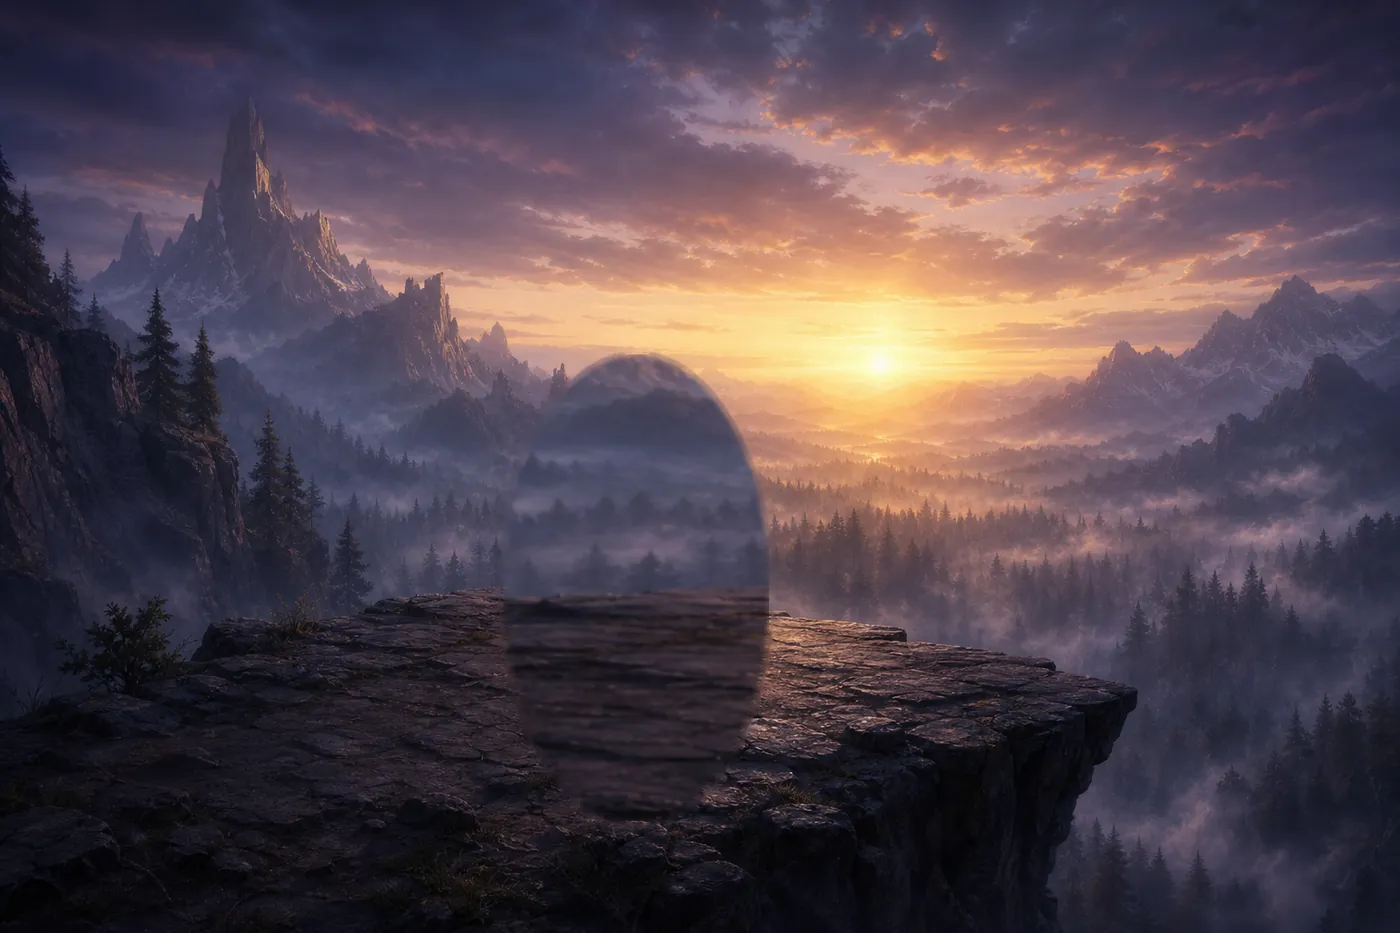
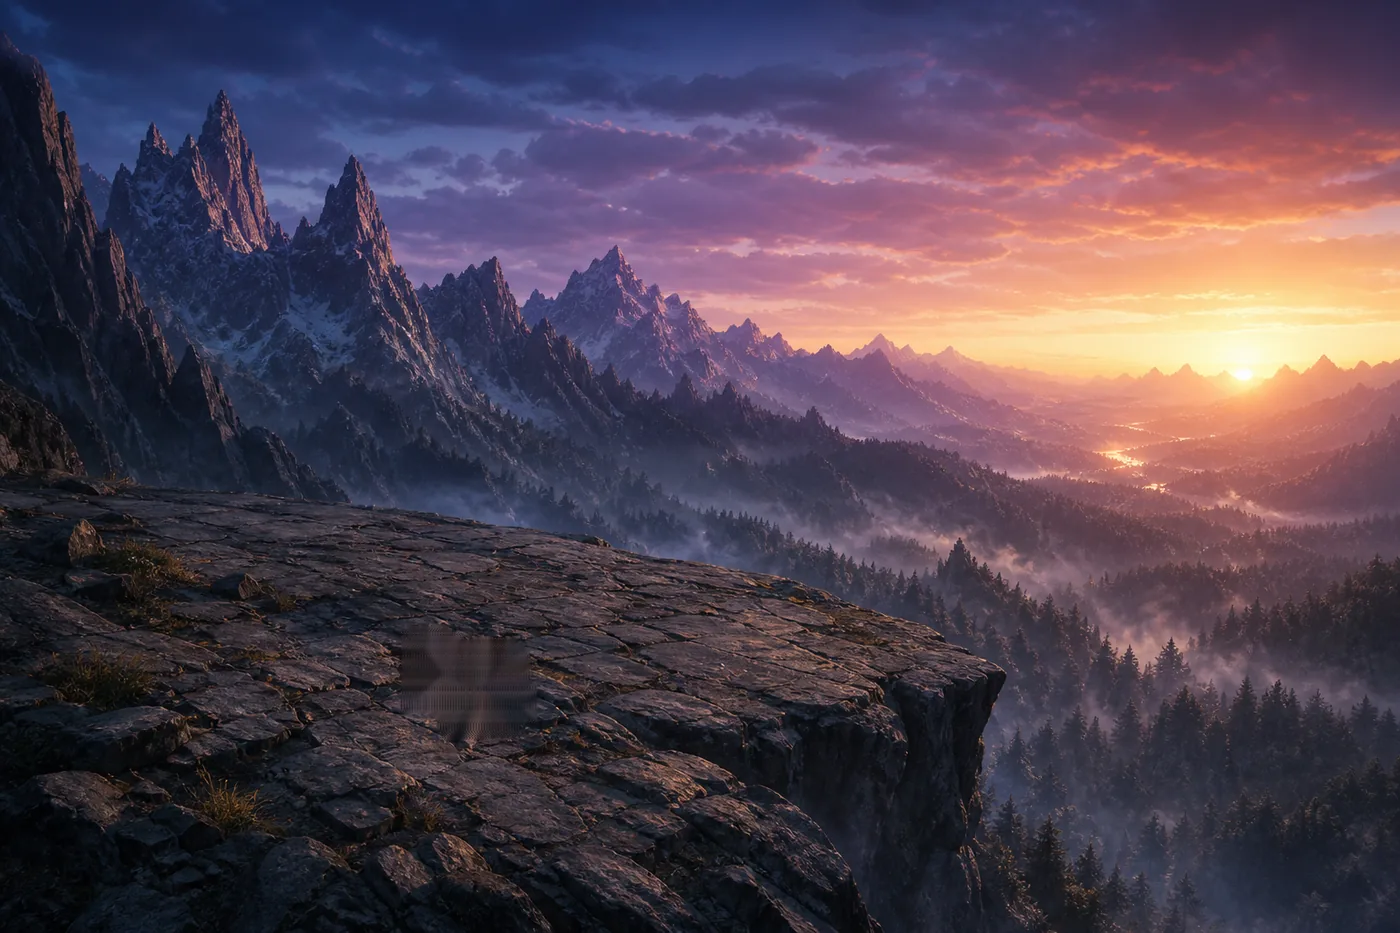
Remove egg auras and clean cliff backdrop smear.

diff --git a/src/components/dashboard/DashboardCommandBridge.tsx b/src/components/dashboard/DashboardCommandBridge.tsx
@@ -192,8 +192,7 @@ export function DashboardCommandBridge({
               loading="eager"
               decoding="async"
             />
-            <div className="absolute inset-0 bg-gradient-to-b from-black/45 via-black/10 to-black/55" />
-            <div className="absolute inset-0 bg-[radial-gradient(ellipse_at_50%_70%,transparent_20%,rgba(0,0,0,0.45)_100%)]" />
+            <div className="absolute inset-0 bg-gradient-to-b from-black/40 via-transparent to-black/50" />
             <div className="absolute bottom-[7%] left-1/2 h-3 w-[42%] max-w-[11rem] -translate-x-1/2 rounded-[100%] bg-black/45 blur-md" />
           </div>
 
@@ -211,16 +210,6 @@ export function DashboardCommandBridge({
               className="relative flex w-full max-w-[16rem] items-end justify-center sm:max-w-[18rem]"
               style={{ height: HERO_HEIGHT, maxHeight: 'calc(100% - 2rem)' }}
             >
-              {/* Egg-shaped aura behind hero — frames silhouette without covering art */}
-              <div
-                data-testid="hero-egg-backdrop"
-                aria-hidden
-                className="pointer-events-none absolute bottom-[2%] left-1/2 z-0 h-[96%] w-[78%] max-w-[15rem] -translate-x-1/2 rounded-[50%] bg-[radial-gradient(ellipse_at_50%_42%,rgba(40,36,58,0.55)_0%,rgba(18,16,28,0.72)_48%,rgba(8,7,12,0.15)_78%,transparent_88%)] shadow-[inset_0_0_0_1px_rgba(251,191,36,0.12),0_0_40px_rgba(0,0,0,0.35)]"
-              />
-              <div
-                aria-hidden
-                className="pointer-events-none absolute bottom-[6%] left-1/2 z-0 h-[88%] w-[62%] max-w-[12rem] -translate-x-1/2 rounded-[50%] bg-[radial-gradient(ellipse_at_50%_35%,rgba(251,191,36,0.08)_0%,transparent_65%)]"
-              />
               <GameAssetImage
                 variant="hero"
                 src={heroAssets.src}

diff --git a/src/game/assetPaths.ts b/src/game/assetPaths.ts
@@ -14,7 +14,7 @@ import { getLegacyCodexBossManifestAssetId } from './manifestAssetUi';
 export const GAME_ASSET_BASE_PATH = '/game-assets';
 
 /** Bump when replacing PNGs so browsers reload public assets */
-export const GAME_ASSET_VERSION = '54';
+export const GAME_ASSET_VERSION = '55';
 
 /** Folder names under heroes/{gender}/variants/ */
 export type HeroAssetVariantFolder = 'dark-fantasy' | 'light';
